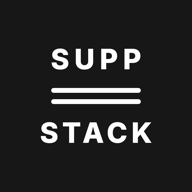
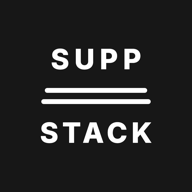
Funnel the brand mark: rules step between SUPP and STACK widths
Rule widths interpolate between the measured word widths so the
lockup funnels outward — SUPP, rule, rule, STACK — across the app
icon, splash screens, web icons, logo PNG, and the login screen's
live mark.

Changed region(s): [[0.7188, 0.4375, 0.7812, 0.5625], [0.2188, 0.4375, 0.2812, 0.5625]]

diff --git a/src/app/login/page.tsx b/src/app/login/page.tsx
@@ -26,9 +26,11 @@ function BrandMark() {
       <span className="font-sans text-[15px] font-extrabold leading-none tracking-[0.18em] text-white">
         SUPP
       </span>
-      <span className="my-2 flex w-12 flex-col gap-[3.5px]" aria-hidden="true">
-        <span className="h-[2.5px] w-full rounded-full bg-white" />
-        <span className="h-[2.5px] w-full rounded-full bg-white" />
+      {/* Rules step outward — just wider than SUPP, just narrower than STACK
+          — so the lockup funnels: SUPP → rule → rule → STACK. */}
+      <span className="my-2 flex flex-col items-center gap-[3.5px]" aria-hidden="true">
+        <span className="h-[2.5px] w-[49px] rounded-full bg-white" />
+        <span className="h-[2.5px] w-[53px] rounded-full bg-white" />
       </span>
       <span className="font-sans text-[15px] font-extrabold leading-none tracking-[0.14em] text-white">
         STACK
